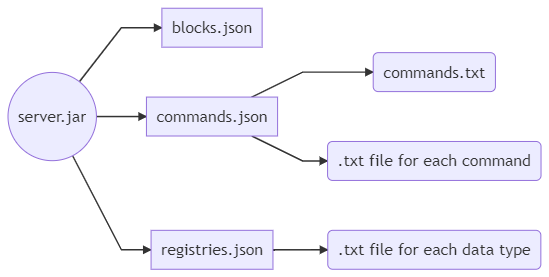
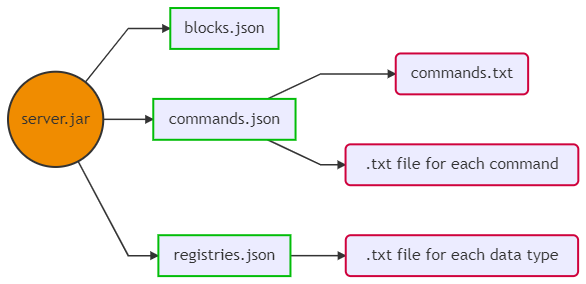
Updated README.md

diff --git a/README.md b/README.md
@@ -3,14 +3,14 @@ Author : PixiGeko </br>
 Original idea by Awhikax, from [DataWorld Discord server](https://discord.gg/3gXea6q ).
 
 # How to extract files
-1. Download server.jar of the desired version (from [official site]([https://www.minecraft.net/](https://www.minecraft.net/)) to avoid malware). </br>You can also find it in this [github](https://github.com/PixiGeko/Minecraft-lists/tree/master/versions/list)
+1. Download server.jar of the desired version (from [official site]([https://www.minecraft.net/](https://www.minecraft.net/)) to avoid malware). </br>You can also find it in this [github repository](https://github.com/PixiGeko/Minecraft-lists/tree/master/versions/list)
 2. Open a bash or command prompt in the directory where server.jar is located
 3. run `java -cp server.jar net.minecraft.data.Main --all` (make sure you have Java installed)
   
-This will generate the "basic" files ( = rectangles in the diagrams below).</br>
-"Special" files ( = rectangles with rounded corners in the diagrams below) are generated by a personal program.
+This will generate the "basic" data files ( = green rectangles in the diagrams below).</br>
+"Special" data files ( = red rectangles with rounded corners in the diagrams below) are generated by a personal program.
 
-<i>server.jar download link can be found here : [version_manifest.json](https://launchermeta.mojang.com/mc/game/version_manifest.json) or directly in this [github](https://github.com/PixiGeko/Minecraft-lists/blob/master/versions/version_manifest.json) (might not be up-to-date)</i>
+<i>server.jar download link can be found here : [version_manifest.json](https://launchermeta.mojang.com/mc/game/version_manifest.json) or directly in this [github repository](https://github.com/PixiGeko/Minecraft-lists/blob/master/versions/version_manifest.json) (might not be up-to-date)</i>
 
 # Files generation
 
@@ -24,3 +24,47 @@ This will generate the "basic" files ( = rectangles in the diagrams below).</br>
 
 ## Version files
 ![](images/manifest.png)
+
+# Data types
+<i>Some descriptions may not be accurate.</i>
+
+| <b>File</b>  | <b>Description</b> |
+| ------------- | ------------- |
+| activity.txt | Villager activities | 
+| biome.txt | Biome IDs | 
+| biome_source_type.txt | Biome types (buffets) | 
+| block.txt | Block IDs | 
+| block_entity_type.txt | Tile entities IDs | 
+| carver.txt |  | 
+| chunk_generator_type.txt |  | 
+| chunk_status.txt |  | 
+| commands.txt | Commands list | 
+| custom_stats.txt | Stats list | 
+| decorator.txt |  | 
+| dimension_type.txt | Dimension IDs | 
+| enchantment.txt | Enchantment IDs | 
+| entity_type.txt | Entity IDs | 
+| feature.txt |  | 
+| fluid.txt | Fluid IDs | 
+| item.txt | Item IDs | 
+| memory_module_type.txt |  | 
+| menu.txt | GUI types | 
+| mob_effect.txt | Mob effect IDs | 
+| motive.txt | Paintings list | 
+| particle_type.txt | Particle IDs | 
+| point_of_interest_type.txt | | 
+| potion.txt | Potion IDs | 
+| recipe_serializer.txt |  | 
+| recipe_type.txt | Recipe types | 
+| rule_test.txt |  | 
+| schedule.txt |  | 
+| sensor_type.txt |  | 
+| sound_event.txt | Sound IDs | 
+| stat_type.txt | Stat types | 
+| structure_feature.txt | Structures list | 
+| structure_piece.txt |  | 
+| structure_pool_element.txt |  | 
+| structure_processor.txt |  | 
+| surface_builder.txt |  | 
+| villager_profession.txt | Villager professions | 
+| villager_type.txt | Villager types (biomes) | 
